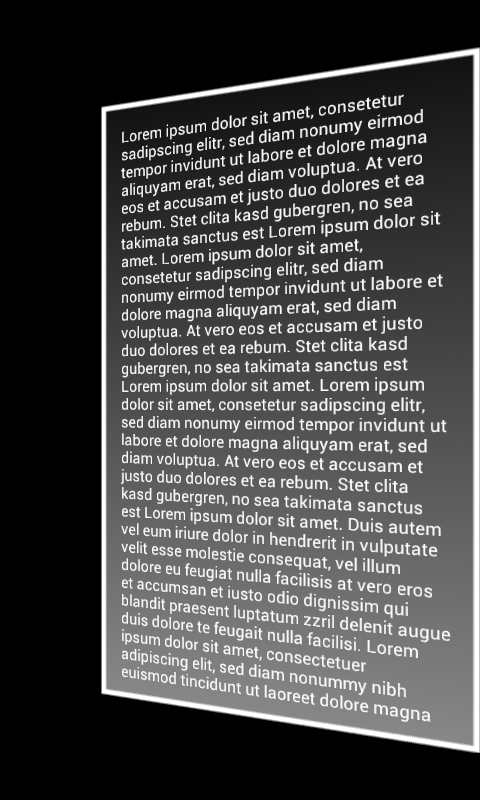
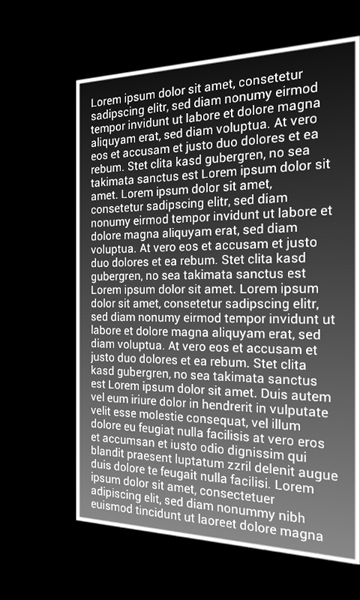
resized screenshots

diff --git a/README.md b/README.md
@@ -3,6 +3,7 @@
 
 ![Screenshot 1](https://github.com/renard314/ViewPager3D/raw/master/screenshot1.png)
 ![Screenshot 1](https://github.com/renard314/ViewPager3D/raw/master/screenshot2.png)
+![Screenshot 1](https://github.com/renard314/ViewPager3D/raw/master/screenshot3.png)
 
 This project aims to provide a reusable ViewPager widget for Android. It is based on the ViewPager class from Androids V4 compatibility package. Because of that android-support-v4.jar needs to be included in the build path.
 
